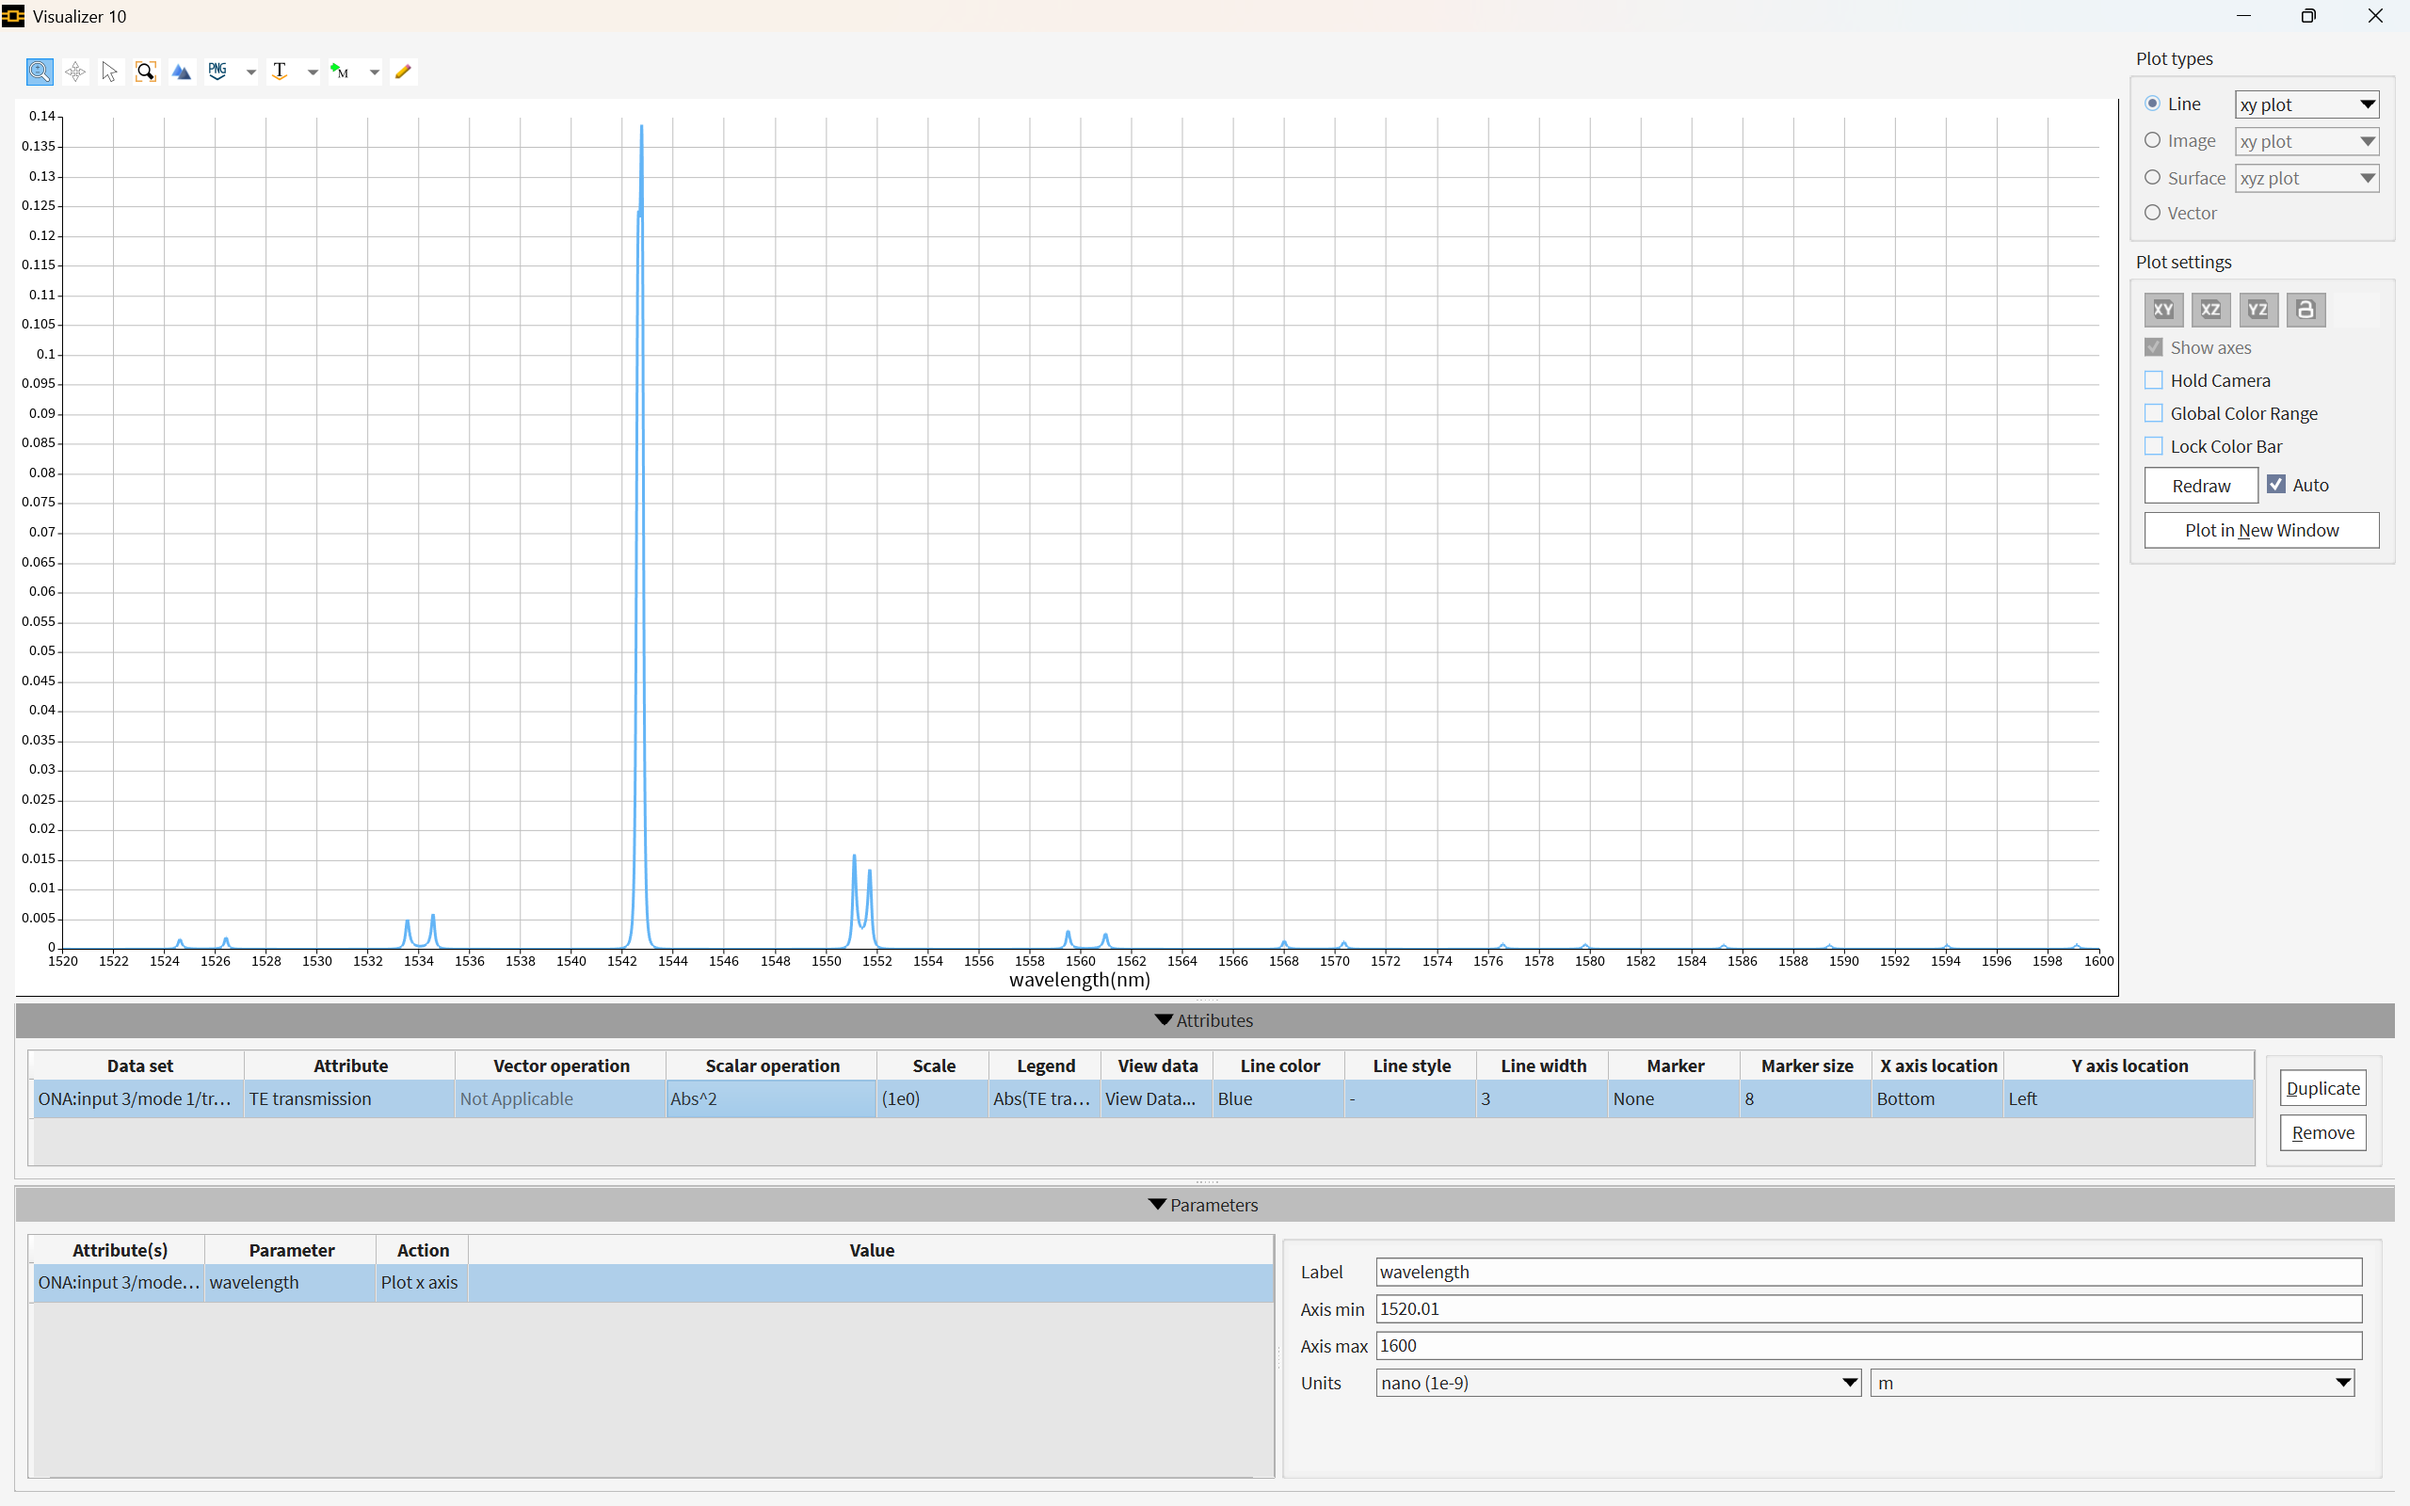
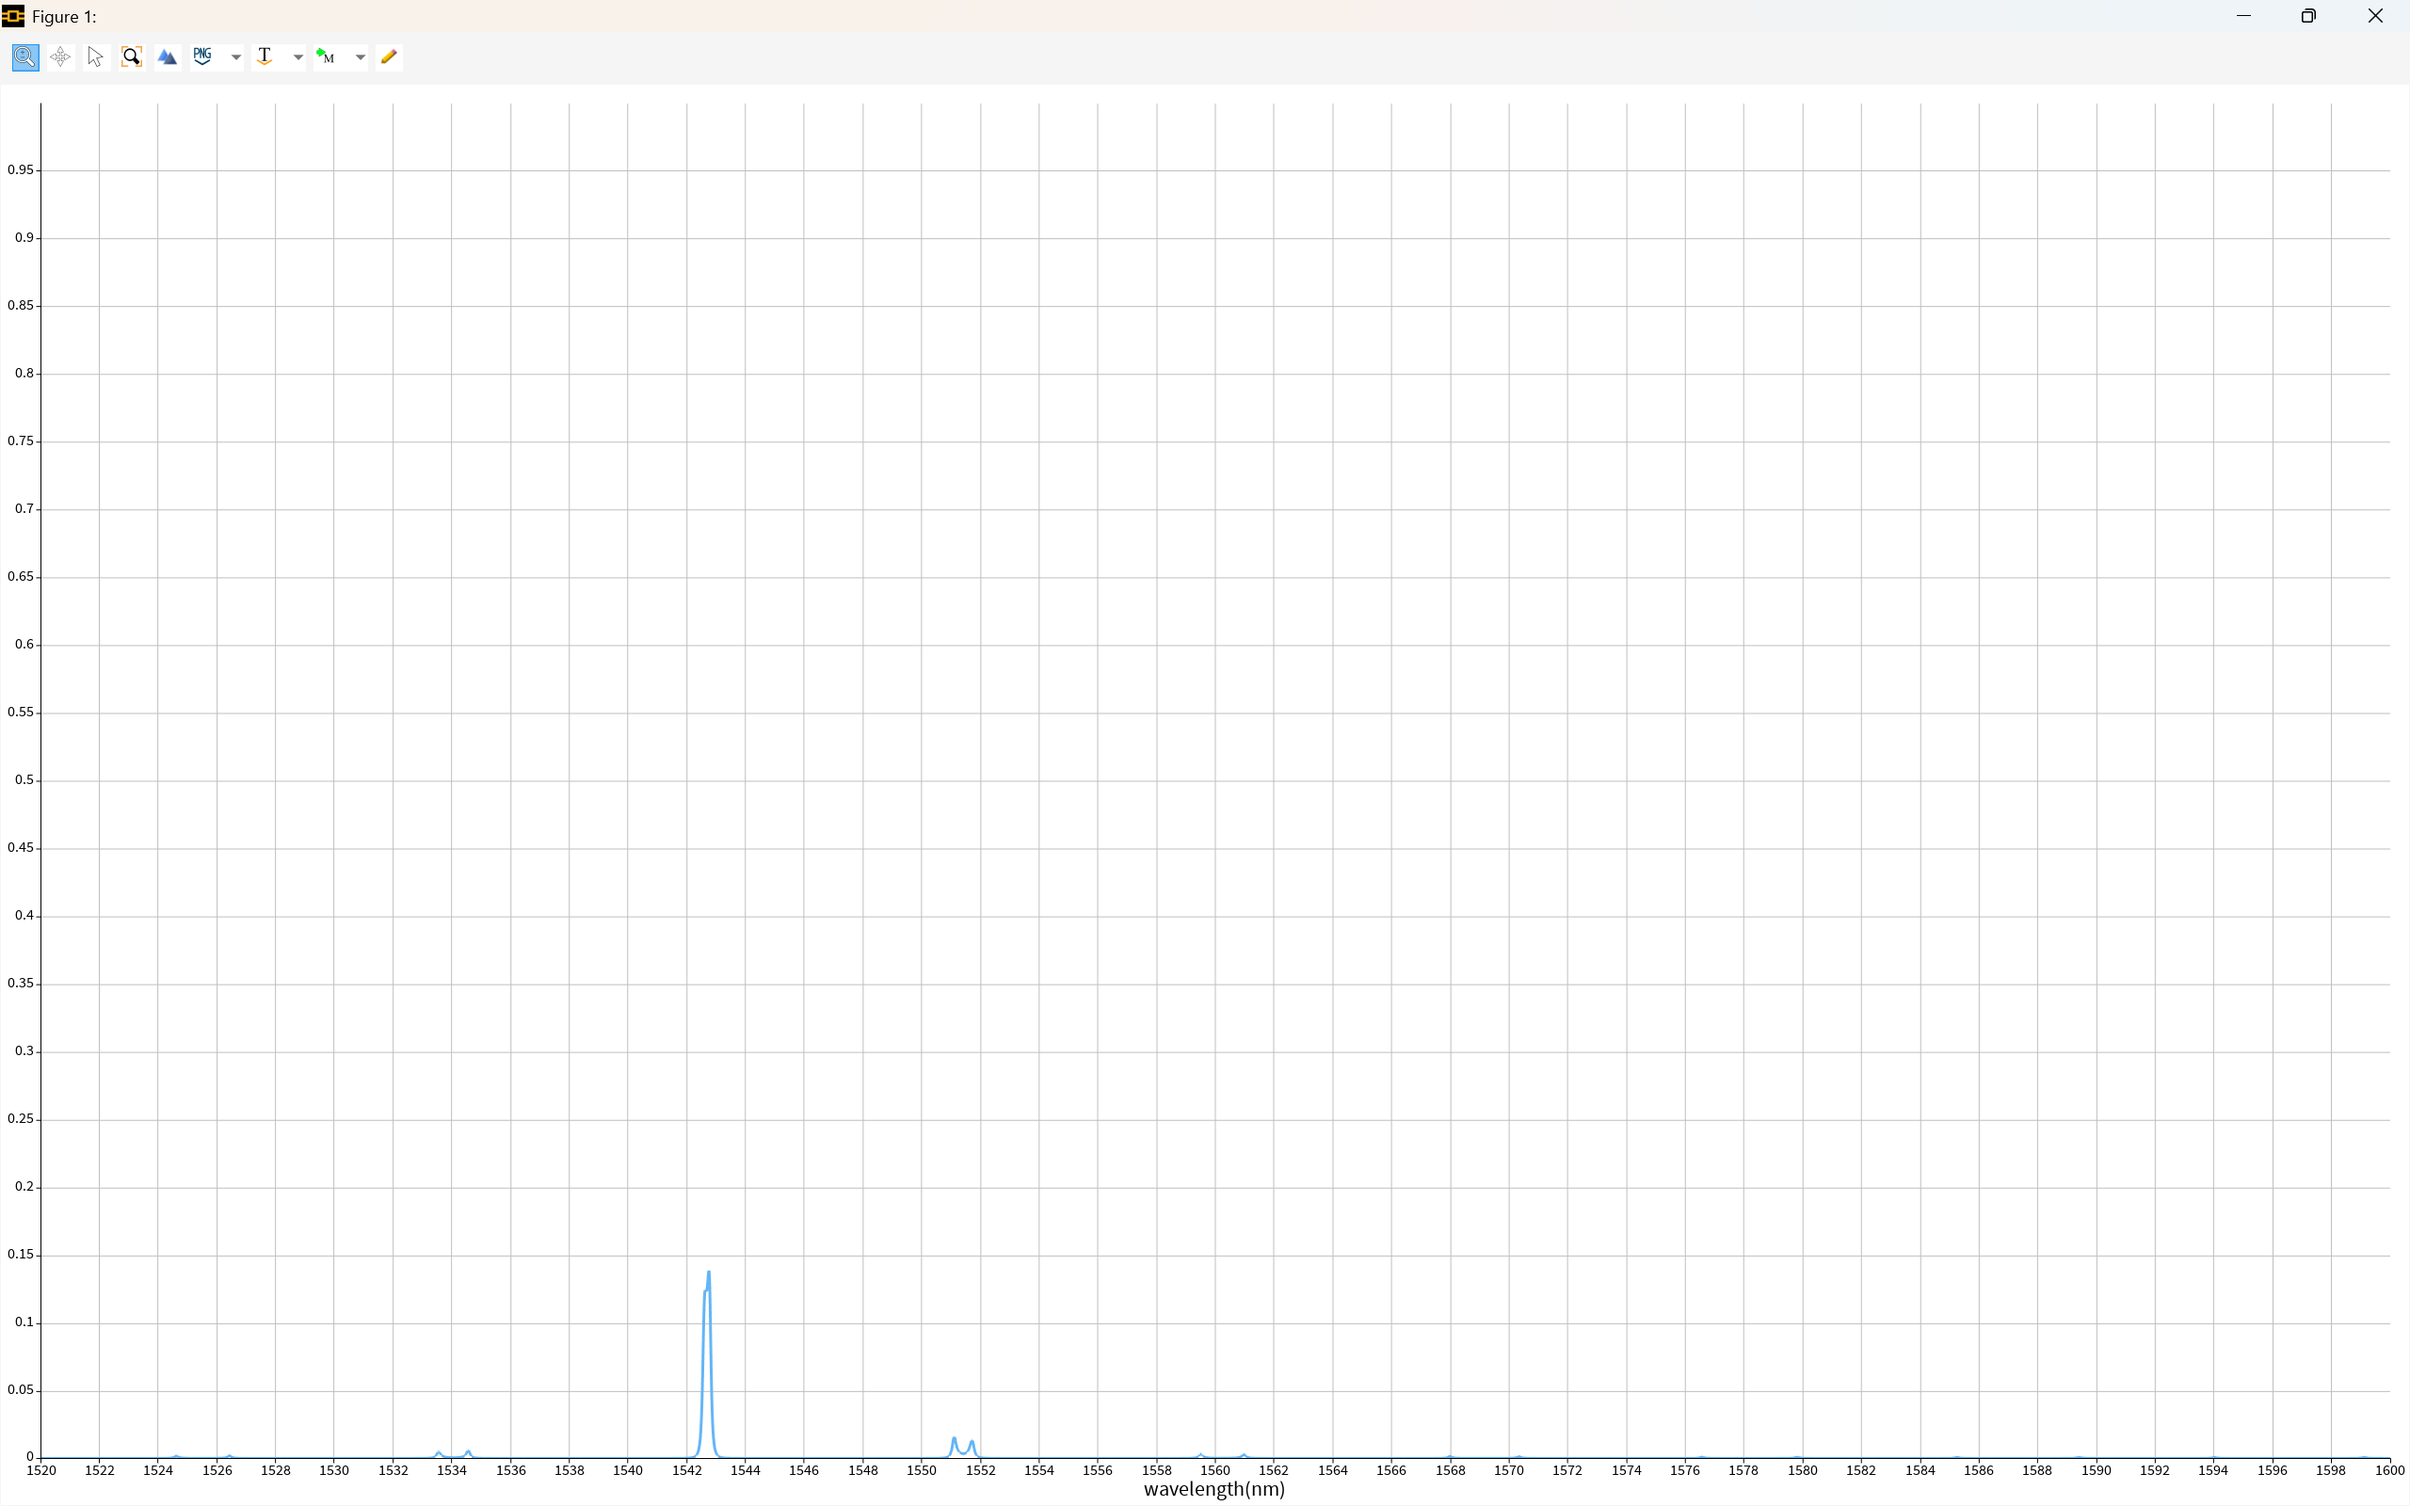
docs: verify s06 ring tuning spectra

diff --git a/projects/case-002-vernier-optics/results/figures/s06/README.md b/projects/case-002-vernier-optics/results/figures/s06/README.md
@@ -2,12 +2,15 @@
 
 工程：`../../runs/s06_ring_index_tuning_20261107_160617_463134/`；日志：`../../logs/s06_ring_index_tuning_20261107_160617_463134/driver.log`。fraction 为环 2 静态折射率偏置的比例，是仿真输入，不是电压或温度。
 
-| 截图 | 打开的工程 | 可核对结果 | 判断 |
+| 截图 | 对应工程与结果入口 | 截图和日志核对 | 结论与范围 |
 |---|---|---|---|
-| [dual_ring_index_fraction_0p750.png](dual_ring_index_fraction_0p750.png) | `dual_ring_index_fraction_0p750.icp` | ONA input 3 / mode 1，`Abs^2`；日志在 1551.699 nm 附近峰值 0.0134573 | 单图通过；比较图待补 |
-| [dual_ring_index_fraction_1p000.png](dual_ring_index_fraction_1p000.png) | `dual_ring_index_fraction_1p000.icp` | 同一结果项；日志在 1551.709 nm 附近峰值 0.83181 | 单图通过；比较图待补 |
-| [dual_ring_index_fraction_1p250.png](dual_ring_index_fraction_1p250.png) | `dual_ring_index_fraction_1p250.icp` | 同一结果项；日志在 1551.719 nm 附近峰值 0.0135032 | 单图通过；比较图待补 |
+| [dual_ring_index_fraction_0p750.png](dual_ring_index_fraction_0p750.png) | `dual_ring_index_fraction_0p750.icp` → `ONA → input 3 → mode 1 → transmission` | 图中主峰约 1542.7 nm、0.139；日志的全带最大值 0.138737796，1551.7 nm 附近局部峰 0.0134573 | 与日志相符；主峰位于对齐基准的短波侧 |
+| [dual_ring_index_fraction_1p000.png](dual_ring_index_fraction_1p000.png) | `dual_ring_index_fraction_1p000.icp` → 同一入口 | 图中主峰约 1551.7 nm、0.832；日志最大值 0.831809814 | 与日志相符；这是本扫描中最强的共同通带 |
+| [dual_ring_index_fraction_1p250.png](dual_ring_index_fraction_1p250.png) | `dual_ring_index_fraction_1p250.icp` → 同一入口 | 图中主峰约 1560.7 nm、0.137；日志的全带最大值 0.136637916，1551.7 nm 附近局部峰 0.0135032 | 与日志相符；主峰位于对齐基准的长波侧 |
 
-| 比较限制 | 建议补拍 |
+| 比较条件 | 适用范围 |
 |---|---|
-| 三张截图的纵轴自动缩放：0.75、1.25 的上限约 0.14，1.00 的上限约 0.85，图上峰高不能直接比较。 | 在三个工程的 Visualizer 中都固定横轴 1551.4–1552.1 nm、纵轴 0–1，保持 `Abs^2`，再截图。现有结果只说明静态失谐对通带的影响。 |
+| 三图横轴均为 1520～1600 nm，纵轴均为 0～1；截图显示峰位和相对高度，日志给出功率透射率数值。 | 这些是静态折射率偏置的电路仿真结果，并非电压、温度或实测光谱。 |
+| 当前截图是独立 Figure 窗口，未显示 `ONA` 结果树及 `Scalar operation` 选择。 | `input 3 / mode 1 / Abs^2` 由工程说明和数值日志交叉核对，截图本身不能独立证明该设置。 |
+
+三个主峰相隔约 9 nm，接近半径 10 µm 环在 1551.7 nm 处按 `n_g=4.16704` 估算的单环 FSR（约 9.20 nm）。因此 1542.7 nm 和 1560.7 nm 是相邻谐振阶次附近的**较弱双环透射峰**，不能称为“没有谐振”。`fraction=1` 使 1551.7 nm 附近两环对齐最好；偏置到 0.75 或 1.25 后，共同透射峰转移到相邻阶次附近，但对齐不充分，峰高约 0.14。仅凭 Drop2 谱不能分别给出两只环的精确谐振中心；需要检查单环或各端口光谱。
